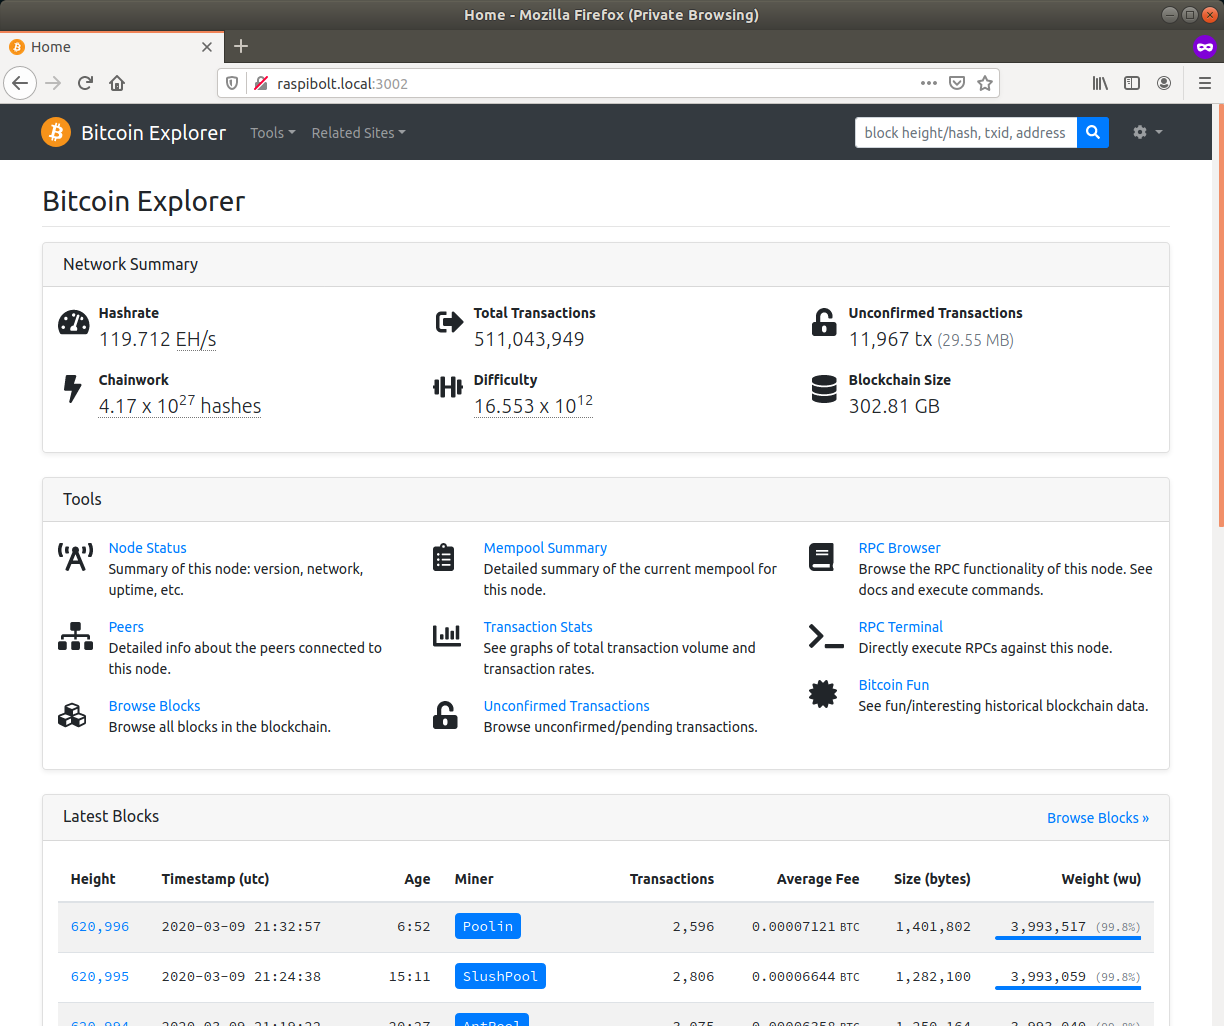
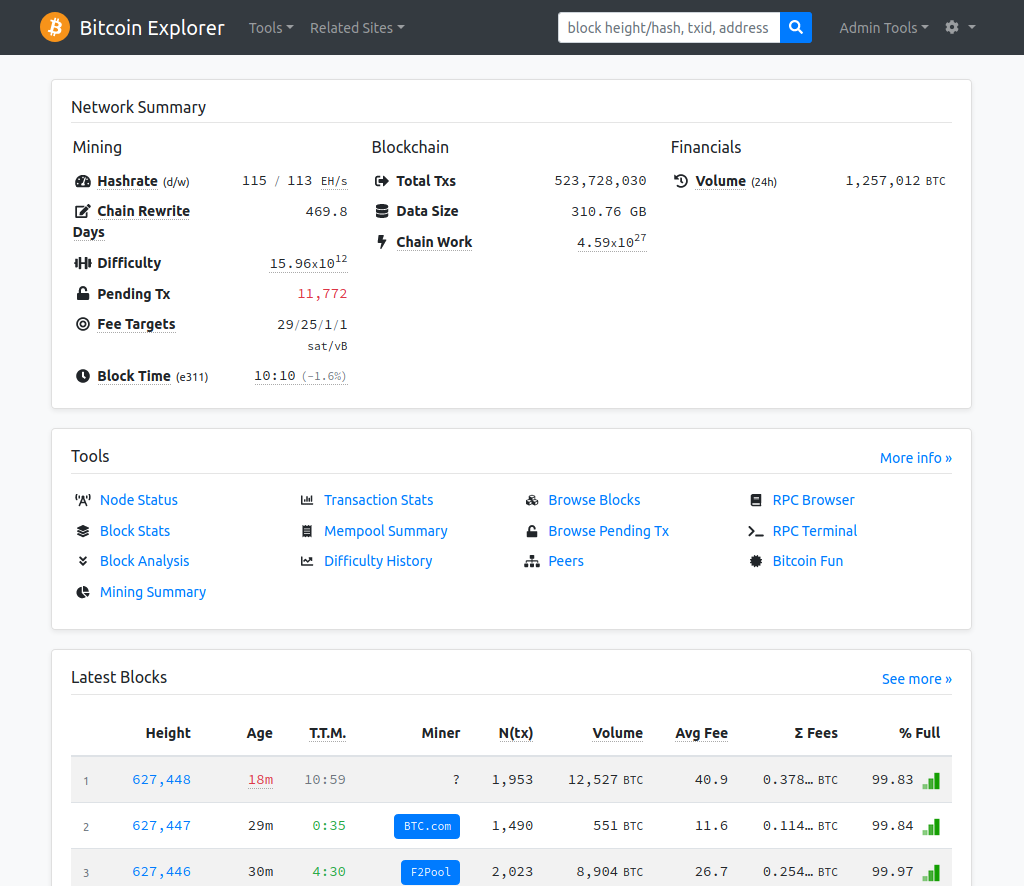
explorer: update btcrpcexplorer to v2.0.0

diff --git a/raspibolt_55_explorer.md b/raspibolt_55_explorer.md
@@ -76,7 +76,7 @@ We do not want to run the explorer code alongside `bitcoind` and `lnd` because o
 For that we will create a separate user and we will be running the code as the new user.
 We are going to install the BTC RPC Explorer in the home directory since it doesn't take much space and doesn't use a database.
 
-* Create a new user and open a user session
+* Create a new user with  your password [ A ] and open a new session
 
   ```sh
   $ sudo adduser btcrpcexplorer
@@ -87,7 +87,7 @@ We are going to install the BTC RPC Explorer in the home directory since it does
   Since the program is written in JavaScript, there is no need to compile.
 
   ```sh
-  $ git clone --branch v1.1.9 https://github.com/janoside/btc-rpc-explorer.git
+  $ git clone --branch v2.0.0 https://github.com/janoside/btc-rpc-explorer.git
   $ cd btc-rpc-explorer
   $ npm install
   ```
@@ -281,7 +281,7 @@ Updating to a [new release](https://github.com/janoside/btc-rpc-explorer/release
   ```sh
   $ cd ~/btc-rpc-explorer
   $ git fetch
-  $ git checkout v1.1.9
+  $ git checkout v2.0.0
   $ npm install
   $ exit
   ```
